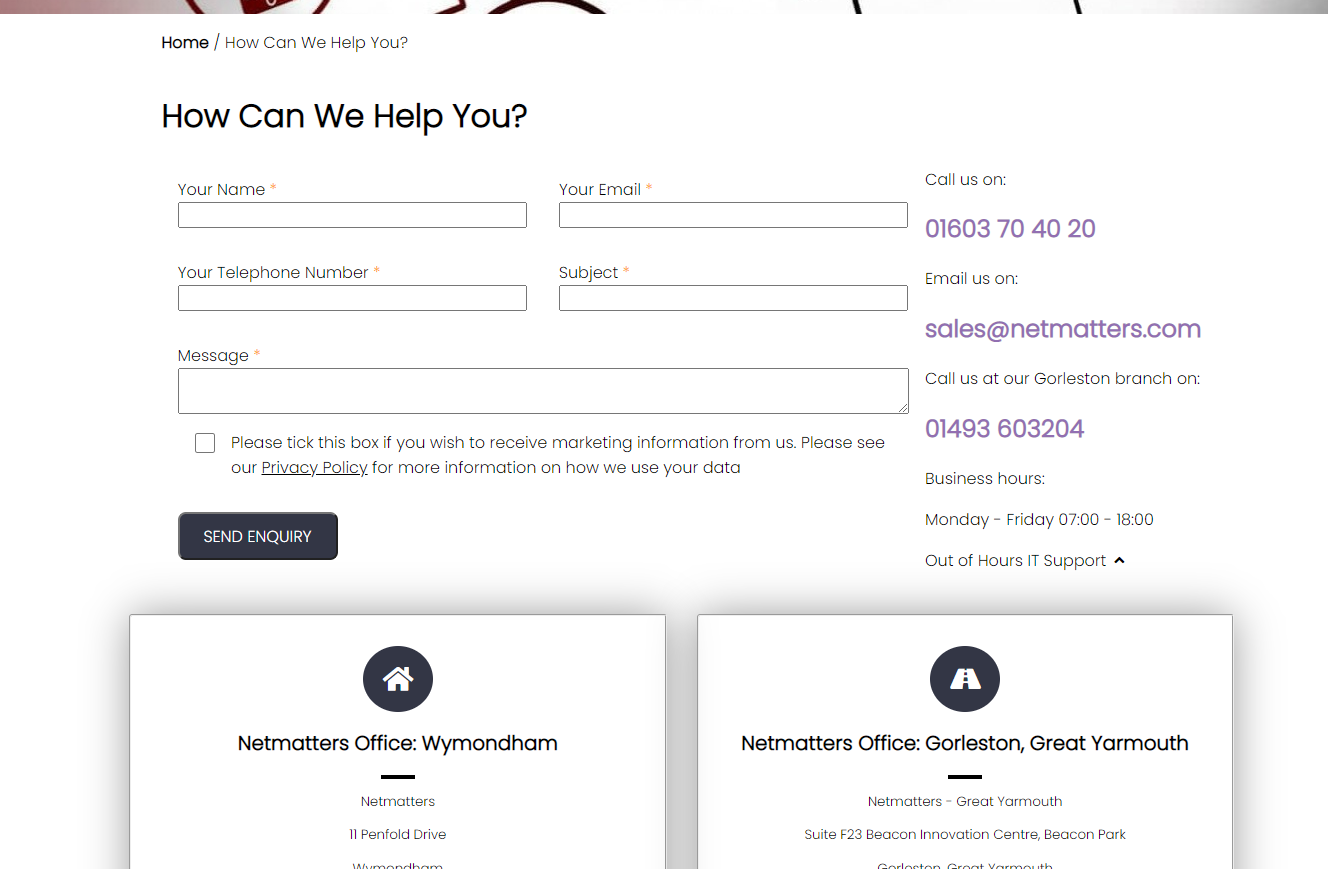
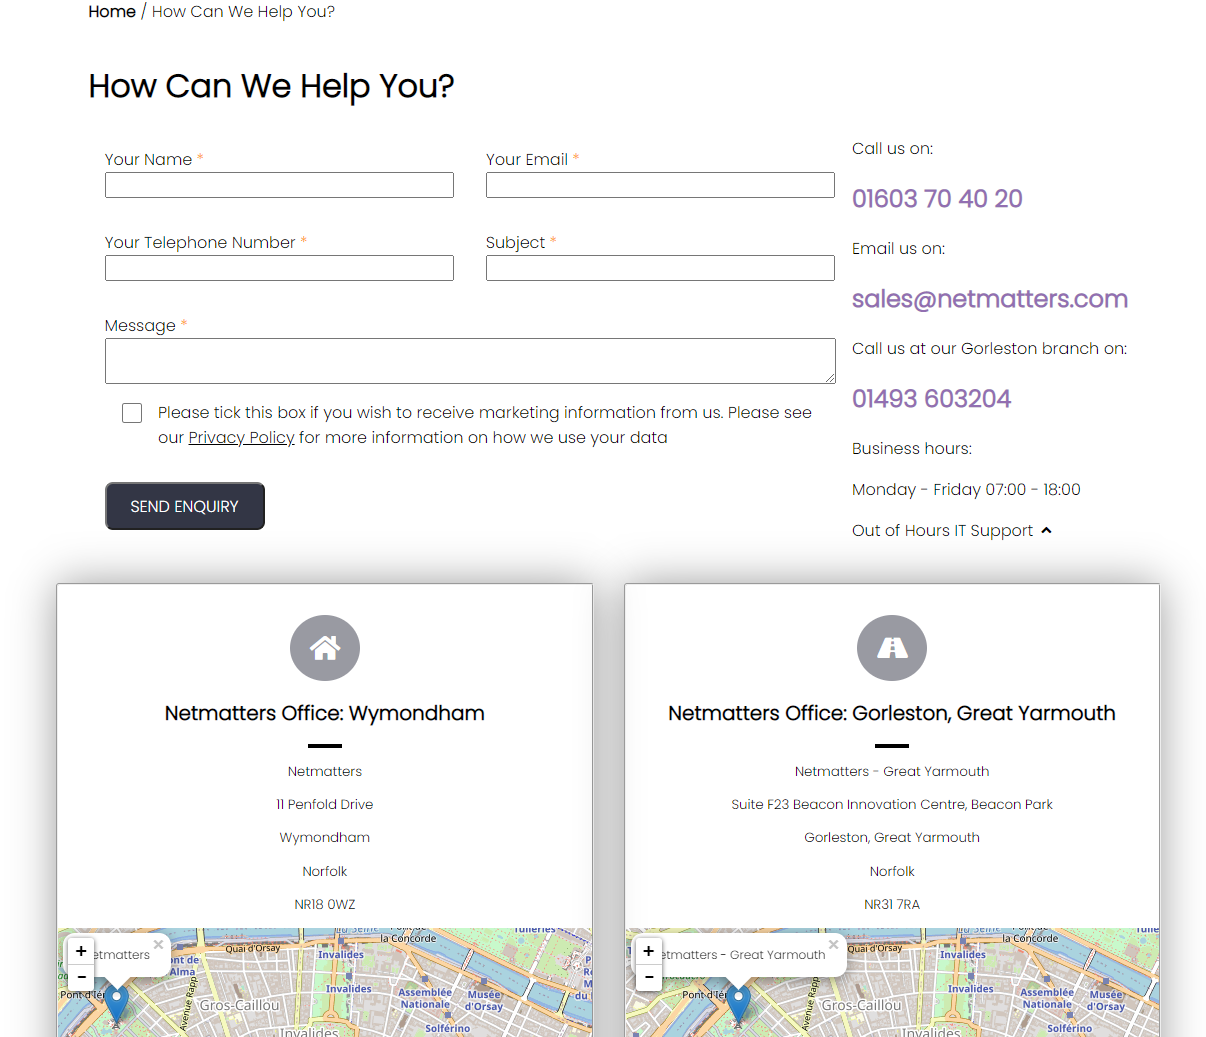
update

diff --git a/css/nmcss.css b/css/nmcss.css
@@ -1,1 +1,1 @@
-*{color:#fff;font-family:'Source Code Pro', monospace}body{background:url(../img/background.png) no-repeat;background-color:#020305;margin:0}button{cursor:pointer}.glow:hover{text-shadow:2px 0px 8px #c7c2c2;text-decoration:underline}.indie-flower{font-family:'Indie Flower', cursive}.oribitron{font-family:'Orbitron', sans-serif}.content-container{flex-direction:column;text-align:center;flex-wrap:wrap;margin-left:auto;margin-right:auto;margin-top:15em;background-color:#333544;border:1px solid #ccc;box-shadow:1px 1px 2px #fff inset, -1px -1px 2px #fff inset;border-radius:3px/6px;padding:1em;width:fit-content}.content-container p{width:30em}.introduction-container{animation:transitionIn 1.75s}@keyframes transitionIn{from{opacity:0;transform:rotateX(-18deg)}to{opacity:1;transform:rotateX(0)}}.btn-codingL{animation:slideLeft 2s}@keyframes slideLeft{from{left:-14em}to{left:1em}}.btn-projectG{animation:slideRight 2s}@keyframes slideRight{from{right:-14em}to{right:1em}}.btn-menu{display:flex;flex-direction:column;align-items:stretch;padding:3px;width:5em;height:5em;background-color:#333544;position:fixed;right:1em;top:1em}.btn-menu i,.btn-menu a{font-size:3em}.btn-menu:hover{background-color:#24252e;text-shadow:2px 0px 8px #c7c2c2}.btn-codingL,.btn-projectG{background-color:#333544;position:fixed;height:4em;border-radius:2em}.btn-codingL a,.btn-projectG a{text-decoration:none}.btn-codingL{left:1em;top:36em}.btn-projectG{right:1em;top:36em}.introduction-container{display:flex;flex-direction:column;width:25em;text-align:center;margin-left:auto;margin-right:auto;margin-top:15em;background-color:#333544;border:1px solid #ccc;box-shadow:1px 1px 2px #fff inset, -1px -1px 2px #fff inset;border-radius:3px/6px;padding:1em}.colour-change-b{color:#38B3DC}.colour-change-b a{text-decoration:none}.colour-change-b a:hover{text-shadow:2px 0px 8px #c7c2c2}.side-nav{height:100%;width:0;position:fixed;z-index:1;top:0%;right:0%;background-color:#111;opacity:0.9;overflow-x:hidden;padding-top:60px;transition:0.5s}.side-nav a{padding:10px 10px 10px 30px;text-decoration:none;font-size:22px;color:#ccc;display:block;transition:0.3s}.side-nav a:hover{color:#fff}.side-nav .btn-close{position:absolute;top:0;right:22px;font-size:36px;margin-left:50px}.grid-container{display:flex;flex-direction:row;flex-wrap:wrap;justify-content:space-evenly;padding:1em}.data-container{display:flex;flex-direction:column;background-color:#333544;border:1px solid #ccc;box-shadow:1px 1px 2px #fff inset, -1px -1px 2px #fff inset;border-radius:3px/6px;text-align:-webkit-center;padding:1em;margin:1em;border-radius:1em;max-width:32em}.data-container img{width:30em;height:20em;border-radius:0.4em;margin:0px auto;transition:transform .5s ease, opacity .5s ease}.data-container img:hover{transform:scale(1.1);cursor:pointer;opacity:0.7}.data-container ol li{text-align:left;margin-top:1em}.github-container{display:flex;justify-content:center}.github-container img{width:2em;height:2em;margin:auto 0}.github-container a{margin:auto 0px;text-decoration:none}.github-container:hover{background-color:#fff;border-radius:2em;width:16em;margin:0px auto}.github-container:hover p{color:black}.list-container{display:flex;flex-direction:column;flex-wrap:wrap;width:fit-content;margin:auto}.list-sections{display:flex;flex-direction:row;flex-wrap:wrap;background-color:#333544;border:1px solid #ccc;box-shadow:1px 1px 2px #fff inset, -1px -1px 2px #fff inset;border-radius:3px/6px;padding:1em;margin:1em}.list-sections img{height:fit-content;margin:auto;transition:0.5s}.list-sections img:hover{transform:rotate(360deg) scale(1.5)}.list-text-container{flex-direction:column}.list-text-container p{width:28em}.list-text-container li{width:35em;margin-bottom:1em}.list-text-container i{transition:0.3s}.list-text-container i:hover{transform:rotate(30deg) scale(1.1)}.star-colour{color:#FFDF00}.star-container{position:fixed;top:1%;left:1%;padding:1em;width:15em;background-color:#333544;border:1px solid #ccc;box-shadow:1px 1px 2px #fff inset, -1px -1px 2px #fff inset;border-radius:3px/6px}.star-container h3{text-align:center}.star-container p{display:inline}@media screen and (max-width: 2560px){.open-slide{display:none}}@media screen and (max-width: 1440px){.star-container{width:13em}.star-container P{font-size:0.875em}}@media screen and (max-width: 1024px){.star-container{position:absolute}}@media screen and (max-width: 768px){.introduction-container{width:20em}.open-slide{display:block}header{display:none}}@media screen and (max-width: 425px){.btn-codingL,.btn-projectG{top:55em}.content-container{margin-left:2em;position:relative}.content-container p{width:fit-content}.btn-menu{z-index:1000}.data-container{max-width:22em}.data-container img{width:22em}.star-container{display:none}}@media screen and (max-width: 375px){.data-container{max-width:18em}.data-container img{width:18em}}@media screen and (max-width: 320px){.introduction-container{width:15em}.btn-codingL,.btn-projectG{top:58em;width:10em}}.nav-container{width:80%;margin:0 auto;font-size:18px}header{background:#333;padding:1em 0}header a{color:white;text-decoration:none}header a.logo{font-weight:bold}header nav{float:right}header nav ul{list-style-type:none;margin:0;display:flex}header nav ul li a{padding:1em}header nav ul li a:hover{background:#1a1a1a}
+*{color:#fff;font-family:'Source Code Pro', monospace}body{background:url(../img/background.png) no-repeat;background-color:#020305;margin:0}button{cursor:pointer}.glow:hover{text-shadow:2px 0px 8px #c7c2c2;text-decoration:underline}.indie-flower{font-family:'Indie Flower', cursive}.oribitron{font-family:'Orbitron', sans-serif}.content-container{flex-direction:column;text-align:center;flex-wrap:wrap;margin-left:auto;margin-right:auto;margin-top:15em;background-color:#333544;border:1px solid #ccc;box-shadow:1px 1px 2px #fff inset, -1px -1px 2px #fff inset;border-radius:3px/6px;padding:1em;width:fit-content}.content-container p{width:30em}.introduction-container{animation:transitionIn 1.75s}@keyframes transitionIn{from{opacity:0;transform:rotateX(-18deg)}to{opacity:1;transform:rotateX(0)}}.btn-codingL{animation:slideLeft 2s}@keyframes slideLeft{from{left:-14em}to{left:1em}}.btn-projectG{animation:slideRight 2s}@keyframes slideRight{from{right:-14em}to{right:1em}}.btn-menu{display:flex;flex-direction:column;align-items:stretch;padding:3px;width:5em;height:5em;background-color:#333544;position:fixed;right:1em;top:1em}.btn-menu i,.btn-menu a{font-size:3em}.btn-menu:hover{background-color:#24252e;text-shadow:2px 0px 8px #c7c2c2}.btn-codingL,.btn-projectG{background-color:#333544;position:fixed;height:4em;border-radius:2em}.btn-codingL a,.btn-projectG a{text-decoration:none}.btn-codingL{left:1em;top:36em}.btn-projectG{right:1em;top:36em}.introduction-container{display:flex;flex-direction:column;width:25em;text-align:center;margin-left:auto;margin-right:auto;margin-top:15em;background-color:#333544;border:1px solid #ccc;box-shadow:1px 1px 2px #fff inset, -1px -1px 2px #fff inset;border-radius:3px/6px;padding:1em}.colour-change-b{color:#38B3DC}.colour-change-b a{text-decoration:none}.colour-change-b a:hover{text-shadow:2px 0px 8px #c7c2c2}.side-nav{height:100%;width:0;position:fixed;z-index:1;top:0%;right:0%;background-color:#111;opacity:0.9;overflow-x:hidden;padding-top:60px;transition:0.5s}.side-nav a{padding:10px 10px 10px 30px;text-decoration:none;font-size:22px;color:#ccc;display:block;transition:0.3s}.side-nav a:hover{color:#fff}.side-nav .btn-close{position:absolute;top:0;right:22px;font-size:36px;margin-left:50px}.grid-container{display:flex;flex-direction:row;flex-wrap:wrap;justify-content:space-evenly;padding:1em}.data-container{display:flex;flex-direction:column;background-color:#333544;border:1px solid #ccc;box-shadow:1px 1px 2px #fff inset, -1px -1px 2px #fff inset;border-radius:3px/6px;text-align:-webkit-center;padding:1em;margin:1em;border-radius:1em;max-width:32em}.data-container img{width:30em;height:20em;border-radius:0.4em;margin:0px auto;transition:transform .5s ease, opacity .5s ease}.data-container img:hover{transform:scale(1.1);cursor:pointer;opacity:0.7}.data-container ol li{text-align:left;margin-top:1em}.github-container{display:flex;justify-content:center}.github-container img{width:2em;height:2em;margin:auto 0}.github-container a{margin:auto 0px;text-decoration:none}.github-container:hover{background-color:#fff;border-radius:2em;width:16em;margin:0px auto}.github-container:hover p{color:black}.list-container{display:flex;flex-direction:column;flex-wrap:wrap;width:fit-content;margin:auto}.list-sections{display:flex;flex-direction:row;flex-wrap:wrap;background-color:#333544;border:1px solid #ccc;box-shadow:1px 1px 2px #fff inset, -1px -1px 2px #fff inset;border-radius:3px/6px;padding:1em;margin:1em}.list-sections img{height:fit-content;margin:auto;transition:0.5s}.list-sections img:hover{transform:rotate(360deg) scale(1.5)}.list-text-container{flex-direction:column}.list-text-container p{width:28em}.list-text-container li{width:35em;margin-bottom:1em}.list-text-container i{transition:0.3s}.list-text-container i:hover{transform:rotate(30deg) scale(1.1)}.star-colour{color:#FFDF00}.star-container{position:fixed;top:7%;left:1%;padding:1em;width:15em;background-color:#333544;border:1px solid #ccc;box-shadow:1px 1px 2px #fff inset, -1px -1px 2px #fff inset;border-radius:3px/6px}.star-container h3{text-align:center}.star-container p{display:inline}@media screen and (max-width: 2560px){.open-slide{display:none}}@media screen and (max-width: 1440px){.star-container{width:13em}.star-container P{font-size:0.875em}}@media screen and (max-width: 1024px){.star-container{position:absolute}}@media screen and (max-width: 768px){.introduction-container{width:20em}.open-slide{display:block}header{display:none}.star-container{top:1%}.content-container{width:30em}.contact-container{display:block !important}}@media screen and (max-width: 425px){.btn-codingL,.btn-projectG{top:55em}.content-container{margin-left:2em;position:relative;width:30em}.content-container p{width:fit-content}.btn-menu{z-index:1000;margin-right:1em}.data-container{max-width:32em}.star-container{display:none}.side-nav{z-index:1001}.grid-container{width:35em;justify-content:center;margin:2em}}@media screen and (max-width: 375px){.data-container{max-width:18em}.data-container img{width:18em}.content-container{width:28em}.list-sections{width:21em;font-size:14px}.list-sections p{width:21em}.list-text-container li{width:18em}.grid-container{width:18em}.github-container{display:block}.github-container img{width:3em}}@media screen and (max-width: 320px){.introduction-container{width:15em}.btn-codingL,.btn-projectG{top:58em;width:10em}.content-container{width:26em}}.nav-container{width:80%;margin:0 auto;font-size:18px}header{background:#333;padding:1em 0}header a{color:white;text-decoration:none}header a.logo{font-weight:bold}header nav{float:right}header nav ul{list-style-type:none;margin:0;display:flex}header nav ul li a{padding:1em}header nav ul li a:hover{background:#1a1a1a}aside{width:30%;padding-left:15px;margin-left:15px;float:right;font-style:italic;background-color:lightgray}.article-container{flex-wrap:wrap;margin-left:auto;margin-right:auto;margin-top:1em;background-color:#333544;border:1px solid #ccc;box-shadow:1px 1px 2px #fff inset, -1px -1px 2px #fff inset;border-radius:3px/6px;padding:1em;width:fit-content}.article-content{background:#333;display:flex;flex-wrap:wrap;align-items:center;margin-top:10px}.article-content h2,.article-content p{margin:4px;font-size:90%}.article-content img{width:150px;height:150px;border-radius:50%;position:relative;overflow:hidden;margin:1em}.expText{width:34em}.contact-container{display:flex}.contact-container img{width:20em;border-radius:5em}.contact-container p{margin:auto}.centre{margin-bottom:1em}.email-container{flex-direction:column;flex-wrap:wrap;background-color:#333544;border:1px solid #ccc;box-shadow:1px 1px 2px #fff inset, -1px -1px 2px #fff inset;border-radius:3px/6px;padding:1em;width:14em;align-self:center}.email-container p{width:30em}.row{height:20em;display:flex;flex-direction:column;justify-content:space-evenly;margin-top:10em}

diff --git a/css/contact.css b/css/contact.css
@@ -1,0 +1,46 @@
+/*===============================================================================*/
+/* Contact Us Area
+/*===============================================================================*/
+.formCub {display:flex;flex-direction: column;margin:1em;}
+.formRow {display: flex;}
+.formRow .formCub input {width:25.6em;}
+#agree {width: 6em;height:1.5em;}
+#submit{width: 10em;height: 3em;margin-top: 2em;background-color:#333645;color:#fff !important;border-radius: 8px;font-size: 16px;}
+.contactSettings {display: flex;flex-direction: row;width: 65em;margin: auto;}
+.contactSettings a {color:#926fb1 !important; text-decoration: none;}
+.contactSettings a:hover {color:#926fb1 !important; text-decoration: underline;}
+.contactSettings strong {color:#000 !important;}
+.contactSettings p {color:#000 !important;}
+.contactSettings h1 {color:#000 !important;}
+.contactSettings .formCub h1 {color:#000 !important;}
+.contactSettings .formCub strong {color:#000 !important;}
+.contactSettings .formCub u {color:#000 !important;}
+.contactSettings .formCub p {color:#000 !important;}
+.contactSettings .formCub label {color:#000 !important;}
+.contactSettings .formCub input {color:#000 !important;}
+
+.moreDetails {display:block;padding-top:5em;}
+.moreDetails i {color:#000;margin-left: 8px;}
+
+or{color:#FFA500;}
+
+.error {color: #D82903;background: #FC613F;padding:1em;border:solid;border-radius:1em;}
+.success {color: #089901;background: #2EEF24;padding:1em;border:solid;border-radius:1em;}
+
+/*===============================================================================*/
+/*===============================================================================*/
+
+/*===============================================================================*/
+/* Settings/ Style for "Map Section"
+/*===============================================================================*/
+
+.leaflet-popup-content {color: #000;}
+
+.map-container {width:40em;margin: 15px 15px;padding-top: 30px;text-align: center;box-shadow: 0px 0px 43px -1px #00000066;border-radius: 3px;border-style: groove;border-width: 2px;}
+.map-container i {background-color:#333645;font-size: 2em;}
+
+#map  {width:auto;height:400px;}
+#map2 {width:auto;height:400px;}
+
+
+/*===============================================================================*/
